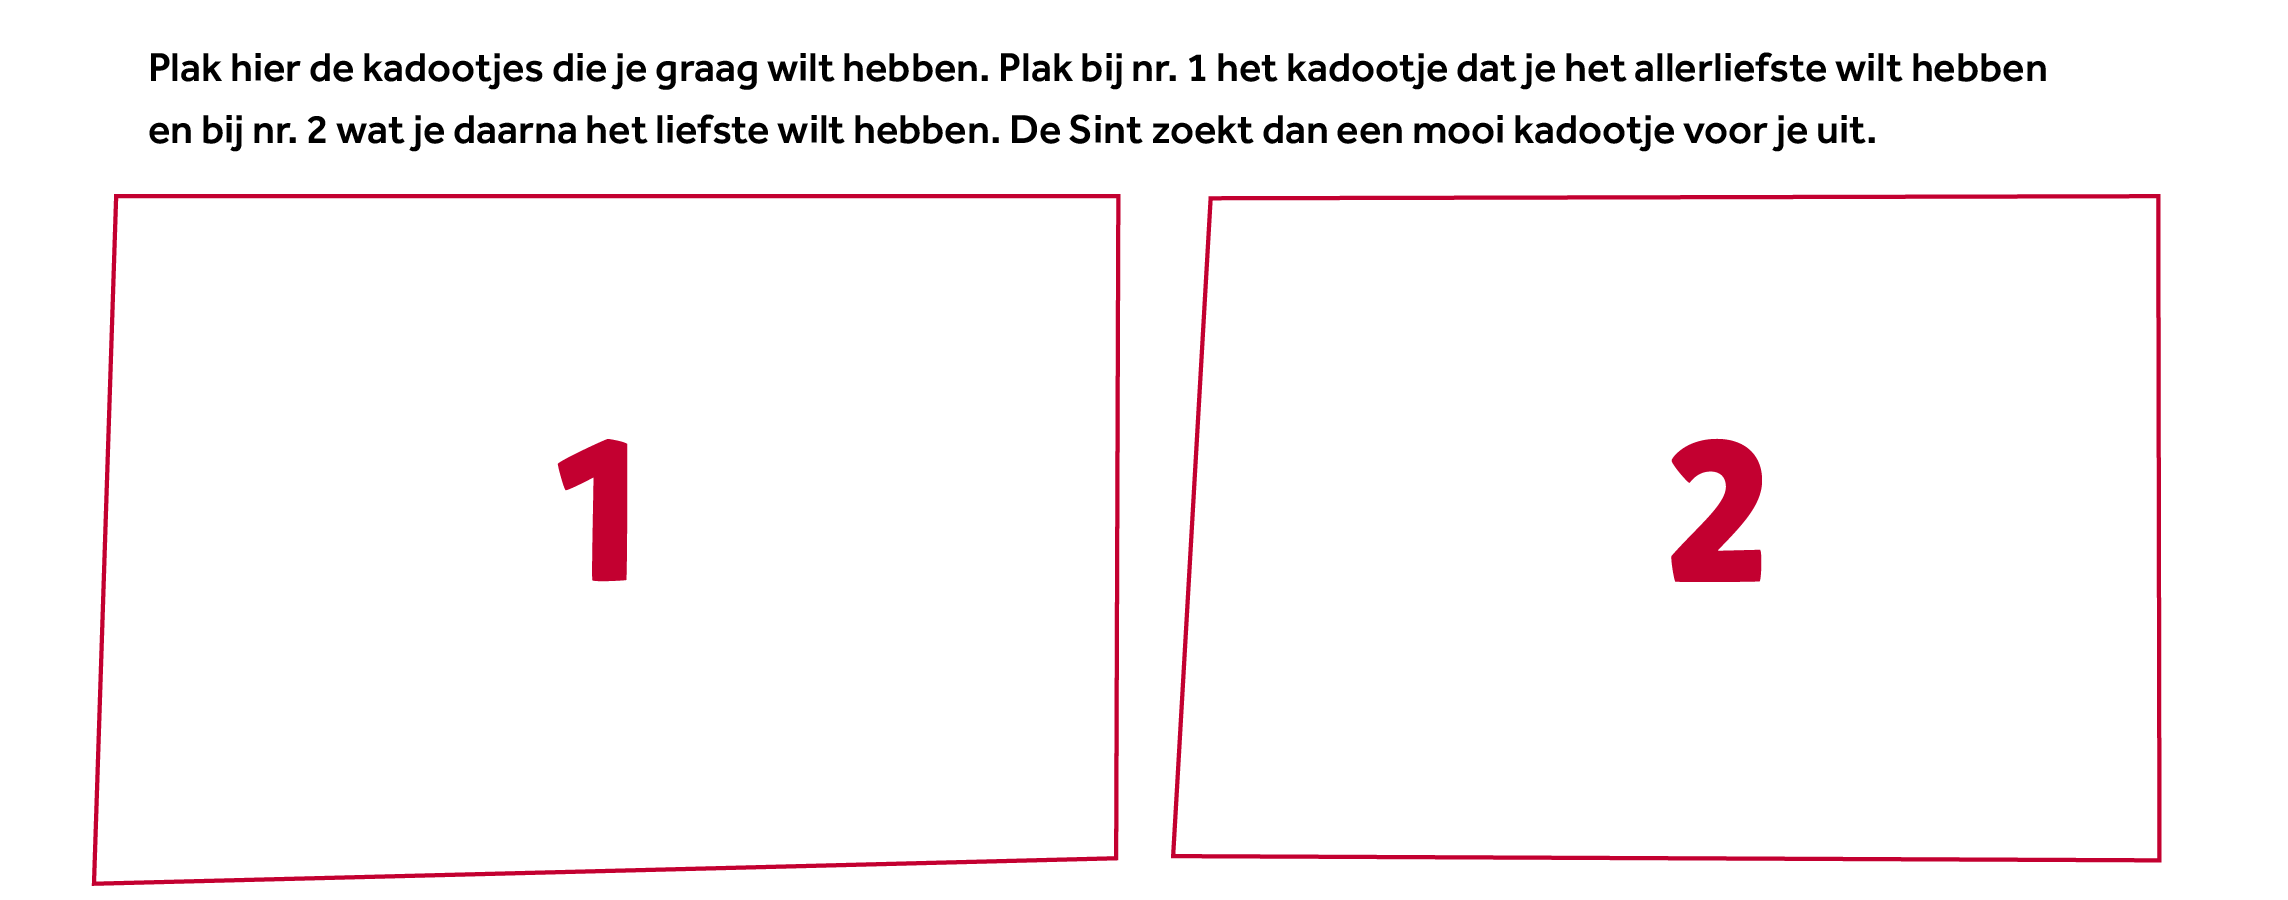
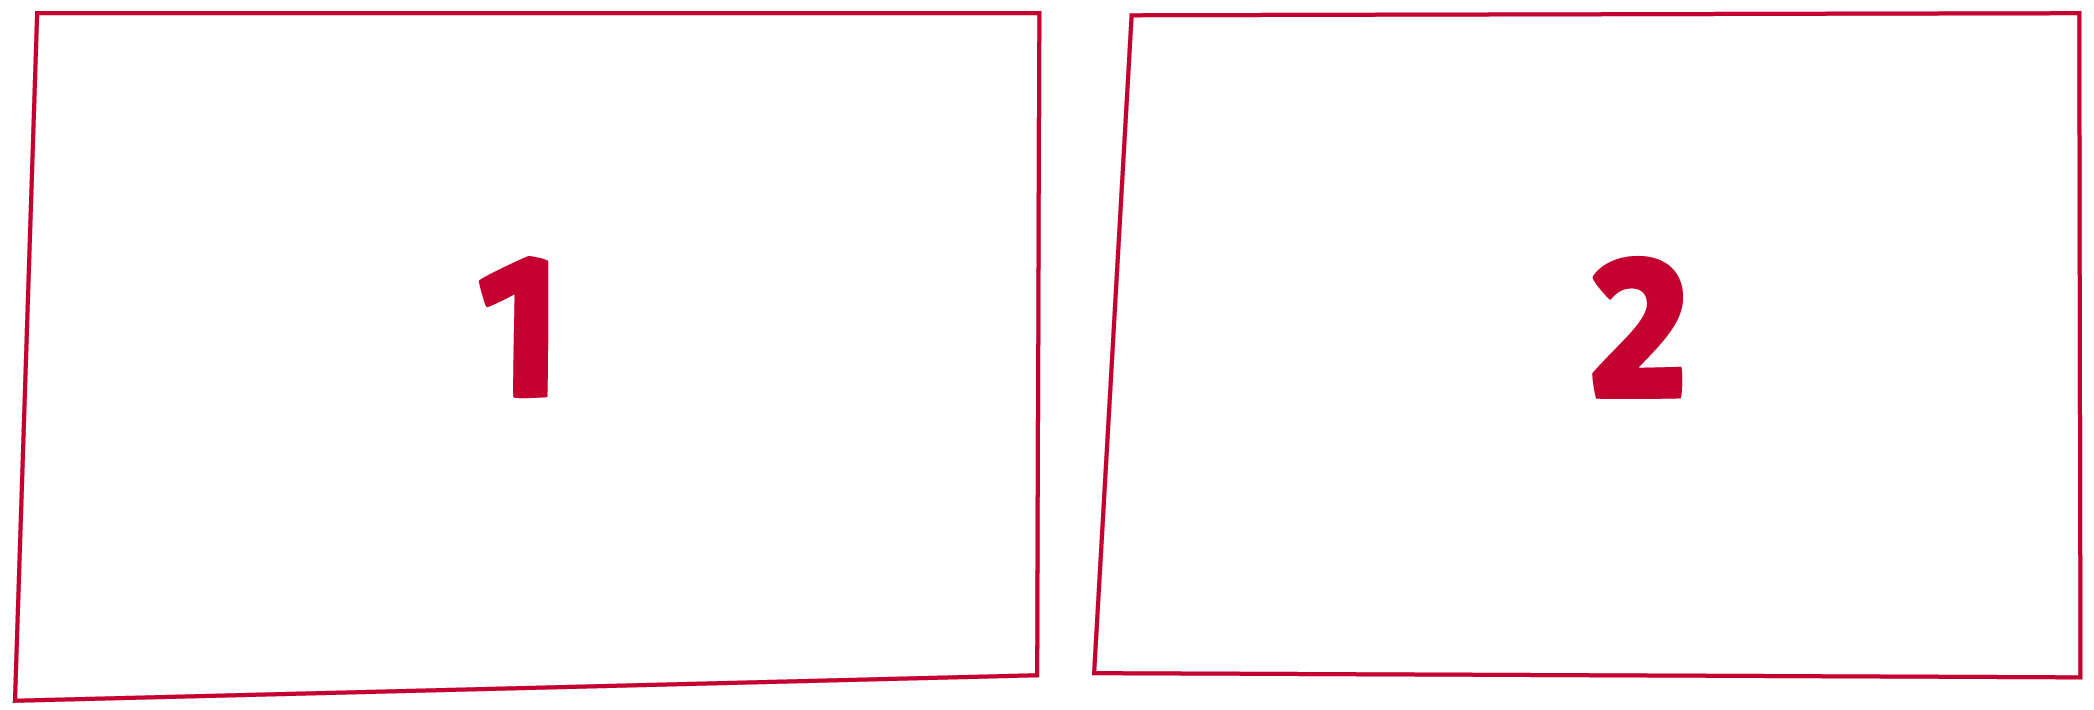
brief

diff --git a/public/css/pdf.css b/public/css/pdf.css
@@ -79,9 +79,9 @@ p {
 
 div.barcode {
 	width: 100%;
-	padding-top: 20px;
+	/*padding-top: 20px;
 	padding-bottom: 20px;
-    padding-left: 200px;
+    padding-left: 200px;*/
     
 }
 div#barcodenumber {
@@ -102,7 +102,7 @@ div#barcodenumber {
 }
 
 #verlanglijstholder{
-	margin-top: -20px;
+	margin-top: -30px;
 	width: 600px;
 }
 

diff --git a/resources/views/pdf/kind.blade.php b/resources/views/pdf/kind.blade.php
@@ -48,7 +48,6 @@
 
 <div class="page-break"></div>
 <div id="top">{{ Html::image('img/sintbankpics/banner_brief2.png', 'logo', array('class' => 'logo')) }}&nbsp;</div>
-<div class="mijter">{{ Html::image('img/mijter.gif', '-', array('class' => 'mijter')) }}&nbsp;</div>
 
 	<div id="textbody">	
 			<p>Madrid, november {{date('Y')}}</p>
@@ -73,6 +72,9 @@
 			Als je je verlanglijstje hebt ingevuld mag je het in je schoen doen. Piet komt het dan bij je ophalen. We gaan dan in de pakjesboot kijken of het cadeauthe dat jij graag wilt hebben is meegekomen uit Spanje. Spannend he!</p>	
 		<p><br>
 			Groetjes van Sint</p>
+
+			<p>Plak hier de kadootjes die je graag wilt hebben. Plak bij nr. 1 het kadootje dat je het allerliefste wilt hebben
+			en bij nr. 2 wat je daarna het liefste wilt hebben. De Sint zoekt dan een mooi kadootje voor je uit.</p>
 	</div>
 
 
